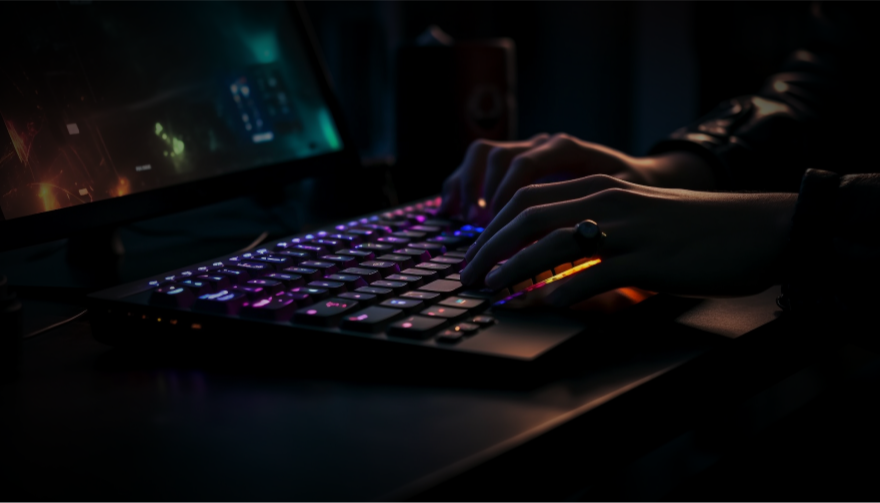
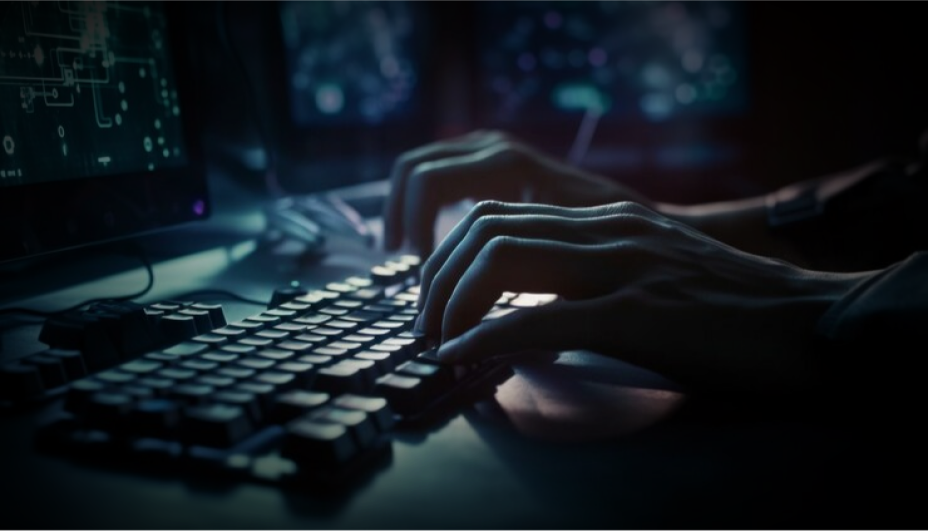
Better

diff --git a/src/components/common/Footer/Footer.js b/src/components/common/Footer/Footer.js
@@ -66,56 +66,36 @@ const Footer = () => {
 
         <ul className="mt-[24px] flex flex-col w-full !text-start items-center gap-[16px]">
           <li className="w-full">
-            <p className="font-medium">
-              Hero & Resume[Page] Background from Behance:{" "}
-              <Link
-                target="_blank"
-                rel="noopener noreferrer"
-                className="underline font-bold text-royalPurpleText"
-                href="https://www.behance.net/gallery/92232693/Software-development-programming-coding-concept-blue"
-              >
-                https://www.behance.net/gallery/92232693/Software-development-programming-coding-concept-blue
-              </Link>
-            </p>
+            <Link
+              target="_blank"
+              rel="noopener noreferrer"
+              className="underline font-bold text-royalPurpleText"
+              href="https://br.freepik.com/vetores-gratis/fundo-de-tecnologia-de-conexao-de-rede-de-terra-digital-global_6864941.htm#from_view=detail_alsolike"
+            >
+              Hero and Resume Image from starline on Freepik
+            </Link>
           </li>
+
           <li className="w-full">
-            <p className="font-medium">
-              About Illustration from Freepik:{" "}
-              <Link
-                target="_blank"
-                rel="noopener noreferrer"
-                className="underline font-bold text-royalPurpleText"
-                href="https://br.freepik.com/fotos-gratis/programador-ocupado-digitando-e-mails-em-ia-geradora-de-laptop-iluminado_42213829.htm#page=2&query=programacao&position=3&from_view=keyword&track=sph&uuid=f32f9277-41a1-41fe-9621-0327ec1092a5"
-              >
-                https://br.freepik.com/fotos-gratis/programador-ocupado-digitando-e-mails-em-ia-geradora-de-laptop-iluminado_42213829.htm#page=2&query=programacao&position=3&from_view=keyword&track=sph&uuid=f32f9277-41a1-41fe-9621-0327ec1092a5
-              </Link>
-            </p>
+            <Link
+              target="_blank"
+              rel="noopener noreferrer"
+              className="underline font-bold text-royalPurpleText"
+              href="https://br.freepik.com/fotos-gratis/uma-pessoa-digitando-no-teclado-do-computador-a-noite-gerado-por-ia_42191506.htm#page=3&query=Keyboard&position=5&from_view=search&track=sph&uuid=57a3dd1d-f9d9-43f8-b260-ade742cb266f"
+            >
+              About Image from vecstock on Freepik
+            </Link>
           </li>
+
           <li className="w-full">
-            <p className="font-medium">
-              Resume[Section] Background from:{" "}
-              <Link
-                target="_blank"
-                rel="noopener noreferrer"
-                className="underline font-bold text-royalPurpleText"
-                href="https://pixabay.com/pt/illustrations/espa%C3%A7o-nebulosa-estrelas-cosmos-7709489/"
-              >
-                https://pixabay.com/pt/illustrations/espa%C3%A7o-nebulosa-estrelas-cosmos-7709489/
-              </Link>
-            </p>
-          </li>
-          <li className="w-full">
-            <p className="font-medium">
-              Beautiful Patterns from Toptal:{" "}
-              <Link
-                target="_blank"
-                rel="noopener noreferrer"
-                className="underline font-bold text-royalPurpleText"
-                href="https://www.toptal.com/designers/subtlepatterns/"
-              >
-                https://www.toptal.com/designers/subtlepatterns/
-              </Link>
-            </p>
+            <Link
+              target="_blank"
+              rel="noopener noreferrer"
+              className="underline font-bold text-royalPurpleText"
+              href="https://br.freepik.com/vetores-gratis/interior-de-quarto-de-menino-adolescente-computadores-na-mesa_8924570.htm#query=Programa%C3%A7%C3%A3o&position=47&from_view=search&track=sph&uuid=971d2afb-231a-430f-a18c-2e74520c43c3"
+            >
+              Image Above Contact from upklyak on Freepik
+            </Link>
           </li>
         </ul>
       </div>

diff --git a/src/components/section-content/homepage/Services/Services.js b/src/components/section-content/homepage/Services/Services.js
@@ -1,5 +1,5 @@
 import Image from "next/image";
-import React, { useRef} from "react";
+import React, { useRef } from "react";
 import { motion } from "framer-motion";
 // eslint-disable-next-line no-unused-vars
 import { Link as ScrollLink, animateScroll as scroll } from "react-scroll";
@@ -34,7 +34,7 @@ const Services = ({ sizeHandleButtonHover, sizeHandleButtonLeave }) => {
 
           <div>
             <motion.ul
-              className="grid gap-x-[16px] gap-y-[24px] items-stretch md:grid-cols-2 lg:grid-cols-3"
+              className="grid gap-x-[16px] gap-y-[24px] items-stretch md:grid-cols-2"
               ref={motionUlRef}
             >
               {t("servicesData", { returnObjects: true }).map(
@@ -44,15 +44,15 @@ const Services = ({ sizeHandleButtonHover, sizeHandleButtonLeave }) => {
                       itemIndex % 2 === 0
                         ? "border-cornflowerBlue"
                         : "border-royalPurple"
-                    } content-baseline bg-[black] grid `}
+                    } content-baseline bg-[black] flex gap-[16px] `}
                     key={itemIndex}
                   >
-                    <div
-                      className={`w-fit border-solid ${
+                                     <div
+                      className={`w-fit h-fit border-solid ${
                         itemIndex % 2 === 0
                           ? "border-cornflowerBlue"
                           : "border-royalPurple"
-                      }  border-[3px] p-[12px] rounded-[100%]`}
+                      }  border-[3px] p-[12px] rounded-[8px]`}
                     >
                       <Image
                         aria-hidden={true}
@@ -64,8 +64,8 @@ const Services = ({ sizeHandleButtonHover, sizeHandleButtonLeave }) => {
                         unoptimized
                       />
                     </div>
-
-                    <div className="grid gap-[8px] mt-[16px]">
+                    
+                    <div className="grid gap-[8px] h-fit">
                       <h3 className="text-[18px] sm:text-[20px]">
                         {mapItem.title}
                       </h3>
@@ -74,6 +74,8 @@ const Services = ({ sizeHandleButtonHover, sizeHandleButtonLeave }) => {
                         {mapItem.description}
                       </p>
                     </div>
+
+   
                   </motion.li>
                 )
               )}

diff --git a/src/pages/[lang]/index.js b/src/pages/[lang]/index.js
@@ -204,6 +204,19 @@ const Home = () => {
             <Questions />
           </div>
 
+          <div
+            className={`border-t-[6px] border-cornflowerBlue border-solid bg-cover bg-fixed  bg-[black] w-full bg-no-repeat bg-center bg-[url(/about-illustration5.png)]`}
+          >
+            <div
+              className="h-[50vh] uppercase w-full flex justify-center items-center text-[26px] font-bold"
+              style={{
+                backgroundColor: `rgba(0, 0, 0, 0.7)`,
+              }}
+            >
+              
+            </div>
+          </div>
+
           <div id="contactSection">
             <Contact />
           </div>

diff --git a/src/components/section-content/homepage/About/About.js b/src/components/section-content/homepage/About/About.js
@@ -95,7 +95,7 @@ const About = () => {
                   unoptimized
                   className={`${
                     isAboutImageLoading ? "opacity-0" : "opacity-1"
-                  } max-w-[500px] md:max-w-full w-full h-full object-cover border-solid border-[2px] border-[black]`}
+                  } max-w-[500px] mx-auto md:max-w-full w-full h-full object-cover border-solid border-[2px] border-[black]`}
                   onLoad={handleAboutImageLoad}
                 />
 
